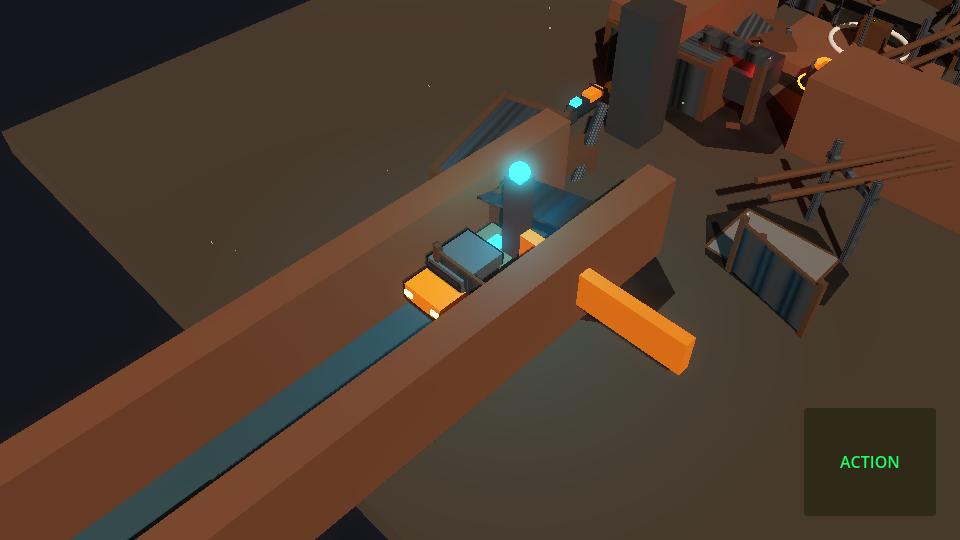
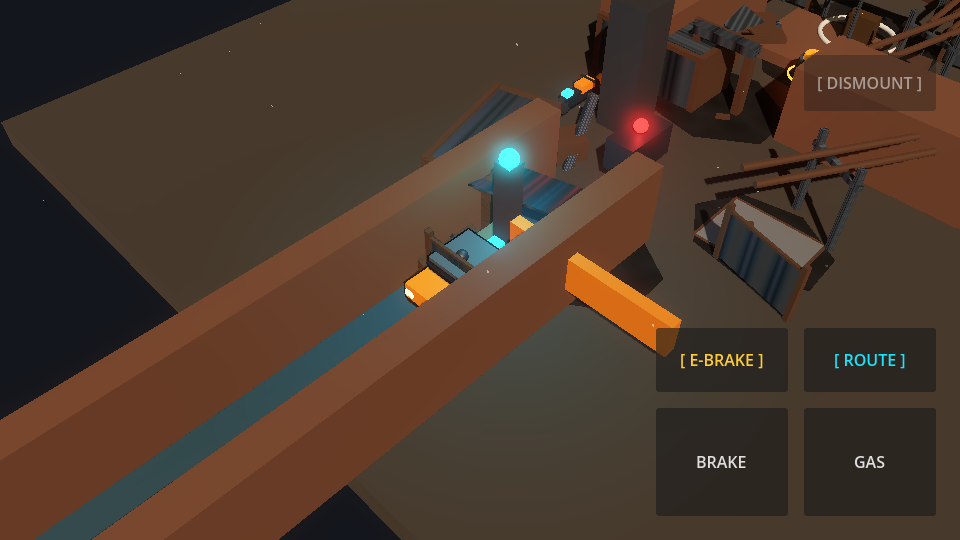
feat(v8-m07a): wire actor ambient audio, mix-state ducking, hauler disturbance pursuit targeting, and strict assertion falsification

diff --git a/HANDOFF.md b/HANDOFF.md
@@ -1,5 +1,5 @@
-# HANDOFF.md — V8 M07 Formal Completion (07.1 - 07.7 Living Scrap Yard & Reactive Ambient World)
-**Generated**: 2026-08-17T02:54 PDT  
+# HANDOFF.md — V8 M07 / M07A Formal Completion (Living Scrap Yard & Threat Handoff Closure)
+**Generated**: 2026-08-17T11:10 PDT  
 **Branch**: `main`  
 **Repo**: https://github.com/JOHNNYMACONNY/art  
 **Engine**: Godot 4.7.1 Stable (Official)  
@@ -10,21 +10,21 @@
 - **V8 M04 / M04B (04.1 - 04.6)**: First Memory Echo / Extraction Payoff & Exactly-Once Lifecycle — ✅ CLOSED & VERIFIED (`6c6f27e`)
 - **V8 M05 / M05A (05.1 - 05.6)**: Hero Silhouette & Courier Identity — ✅ CLOSED & VERIFIED (`3f1ebb5`)
 - **V8 M06 / M06A (06.1 - 06.6)**: First Full-Size Vehicle (Scrap Hauler) & Escape Choice — ✅ CLOSED & VERIFIED (`3c9a456`)
-- **V8 M07 (07.1 - 07.7)**: Living Scrap Yard & Reactive Ambient World — ✅ 100% COMPLETE & VERIFIED
+- **V8 M07 / M07A (07.1 - 07.7)**: Living Scrap Yard & Threat Handoff Closure — ✅ 100% CLOSED & VERIFIED
 
 ---
 
-## 1. Milestone V8 M07 Deliverables & Verification Details
+## 1. Milestone V8 M07 / M07A Deliverables & Verification Details
 
-| Ticket | Description | Status | Deliverables & M07 Resolutions |
+| Ticket | Description | Status | Deliverables & M07A Resolutions |
 |---|---|---|---|
 | **07.1** | Minimal Ambient Actor Framework | ✅ CLOSED | Created deterministic local/runtime ambient actor state machine with 4 states (`AMBIENT`, `YIELDING`, `ALARMED`, `RECOVERING`). Zero networking, persistence, AI bloat, or complex tree solvers. Clean, authoritative reset restoring actors to initial cold-start positions and states. |
-| **07.2** | Two Distinct Ambient Actor Types | ✅ CLOSED | (1) **Scrap Worker** (`scrap_worker.tscn` / `scrap_worker.gd`): Human-scale industrial neutral actor with stylized olive workwear, welding visor, torch light, patrol/inspect loops, and perpendicular vehicle yield evasion. Low population (2 active workers). (2) **Utility Crawler** (`utility_crawler.tscn` / `utility_crawler.gd`): Low industrial autonomous rover with hazard-striped chassis, treads, cargo bed, rotating amber beacon pulse, and salvage lane loop with braking yield. Total active ambient population: 3 actors. |
+| **07.2** | Two Distinct Ambient Actor Types | ✅ CLOSED | (1) **Scrap Worker** (`scrap_worker.tscn` / `scrap_worker.gd`): Human-scale industrial neutral actor with stylized olive workwear, welding visor, torch light, patrol/inspect loops, work clink audio cadence, and perpendicular vehicle yield evasion. Low population (2 active workers). (2) **Utility Crawler** (`utility_crawler.tscn` / `utility_crawler.gd`): Low industrial autonomous rover with hazard-striped chassis, treads, cargo bed, rotating amber beacon pulse, servo hum audio cadence, and salvage lane loop with braking yield. Total active ambient population: 3 actors. |
 | **07.3** | Ambient Movement Serving Readability | ✅ CLOSED | Ambient actor patrol routes and idle stations are strictly placed in peripheral scrap zones. Zero obstruction across Tuner, Corroded Panel, Courier Bike, Scrap Hauler, Security Gate escape corridor (`dist > 3.0m`), or Pedestrian Shortcut ramp (`dist > 3.0m`). |
-| **07.4** | Reactive Disturbance Transition | ✅ CLOSED | Disturbance alert immediately triggers `trigger_alarm()` across all ambient actors: actors abandon work loops, extinguish work lights / strobe hazard beacons, and retreat cleanly along unobstructed paths to designated perimeter cover anchors. Work ambience ducks into silence. |
-| **07.5** | Vehicle Interaction | ✅ CLOSED | Ambient actors proactively yield before collision when approached by fast-moving player vehicles (Courier Bike or Scrap Hauler at > 1.5 m/s): workers perform lateral side-steps and crawlers halt to yield lane. Zero rigid physics wedge disruptions or snagging. |
-| **07.6** | Audio Life | ✅ CLOSED | Added `SoundEvent.AMBIENT_WORK_CLINK` and `SoundEvent.AMBIENT_SERVO_HUM` in `AudioManager`. Ambient world audio automatically thins and ducks to zero during `MixState.DISTURBANCE` and `MixState.PURSUIT_PRESSURE`. |
-| **07.7** | Automated Falsification & 7 Rendered Visual Proofs | ✅ CLOSED | Dedicated test suite `--run-v8-m07-world-life-assertions` (Suite 24, 13/13 assertions pass). 7 distinct rendered 3D Metal viewport captures in `godot/verification/v8/m07/` generated from the verified physical execution flow. Full 24-suite regression sweep passes 100% green. |
+| **07.4** | Reactive Disturbance Transition & Mix-State Handoff | ✅ CLOSED | Disturbance alert triggers `audio_mgr.set_mix_state(DISTURBANCE)` and calls `trigger_alarm()` across all ambient actors: actors abandon work loops, extinguish work lights / strobe hazard beacons, and retreat cleanly along unobstructed paths to designated perimeter cover anchors. Pursuit activation transitions to `MixState.PURSUIT_PRESSURE`. Work ambience ducks into silence. |
+| **07.5** | Vehicle Interaction & Threat Handoff | ✅ CLOSED | Ambient actors proactively yield before collision when approached by fast-moving player vehicles (Courier Bike or Scrap Hauler at > 1.5 m/s): workers perform lateral side-steps and crawlers halt to yield lane. Pursuer disturbance targeting automatically acquires `_get_active_vehicle()` when Scrap Hauler or Courier Bike is mounted, retargets Runner on dismount, and retargets vehicle on remount. |
+| **07.6** | Audio Life & Priority Ducking | ✅ CLOSED | Added `SoundEvent.AMBIENT_WORK_CLINK` and `SoundEvent.AMBIENT_SERVO_HUM` in `AudioManager`. Connected directly to Scrap Worker inspection cadence (1.2s cooldown) and Utility Crawler movement cadence (1.8s cooldown). Ambient world audio automatically thins and ducks to zero during `MixState.DISTURBANCE` and `MixState.PURSUIT_PRESSURE`. Reset purges all transient voices. |
+| **07.7** | Automated Falsification & 7 Rendered Visual Proofs | ✅ CLOSED | Dedicated test suite `--run-v8-m07-world-life-assertions` (Suite 24, 13/13 assertions pass). Proves real worker/crawler transient emission in CALM, suppression in DISTURBANCE and PURSUIT, authoritative transient reset, and live Hauler disturbance targeting + dynamic dismount/remount handoff. 7 distinct rendered 3D Metal viewport captures in `godot/verification/v8/m07/`. Full 24-suite regression sweep passes 100% green. |
 
 ---
 
